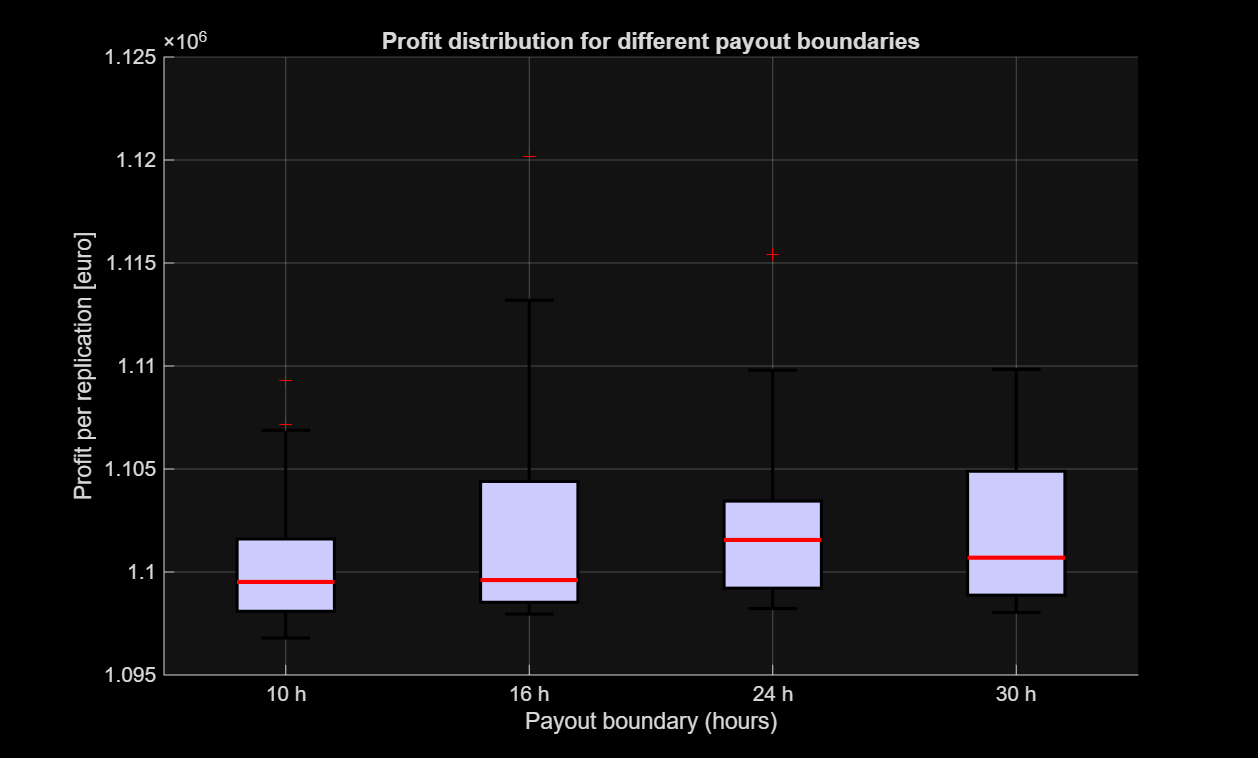
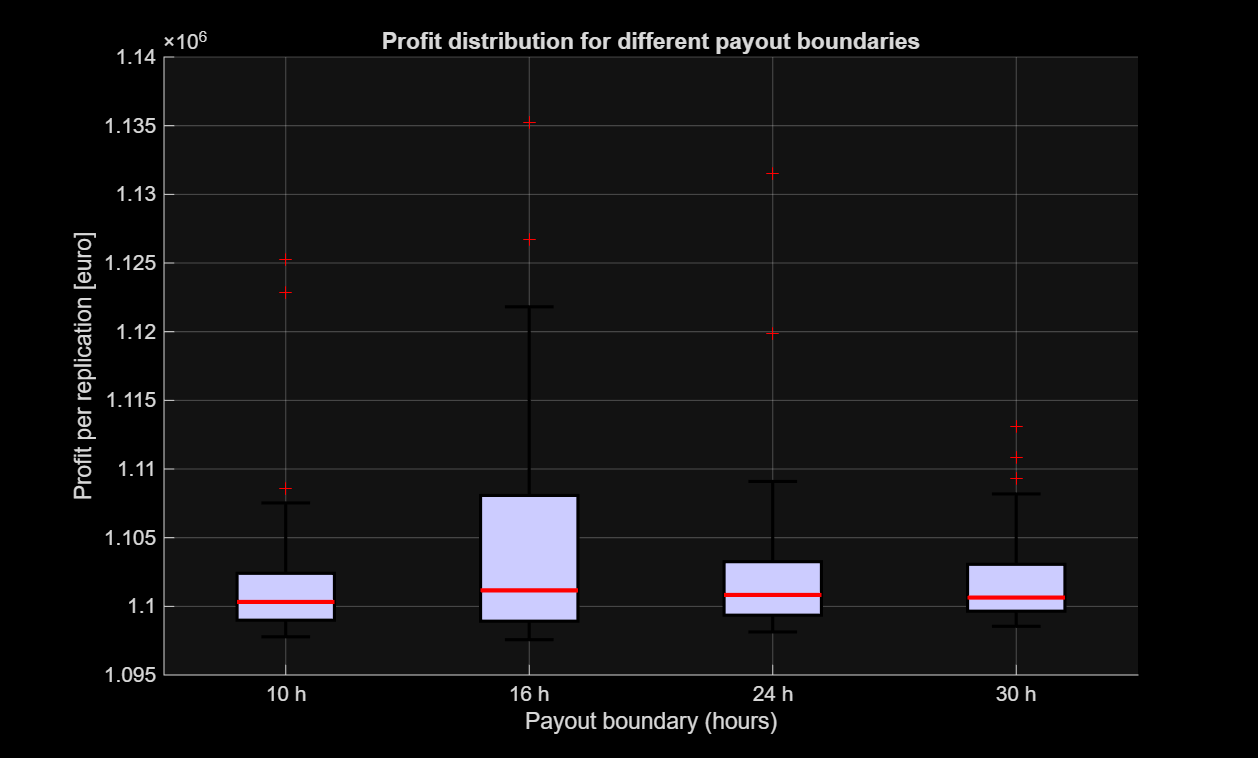
Update comments in task2.m and task3.m for clarity and detail

diff --git a/task2.m b/task2.m
@@ -71,9 +71,8 @@ fprintf('RR std: %.4f s\n', RRc_std);
 % long RR intervals, or detect noise as extra peaks, which produces artificially short RR
 % intervals.
 
-% By removing all RR intervals outside [Q1 - 1.5*IQR, Q3 + 1.5*IQR] and all non-positive
-% values, about 15.5 % of the extreme intervals are discarded. The median changes
-% only slightly, while the standard deviation drops from 0.9007s to 0.2705s. 
+% By removing all RR intervals beyond 1.5 IQR below Q1 or above Q3, along with all non-positive values, about 15.5% of the extreme intervals are gone. 
+% The median changes only slightly, while the standard deviation drops from 0.9007s to 0.2705s. 
 % This indicates that the plausible rhythm is preserved, but the extremes from detection errors are removed.
 
 %% 3. Time-series visualisation

diff --git a/task3.m b/task3.m
@@ -107,7 +107,9 @@ saveas(gcf, 'pictureTask3.png');
 
 
 %% Results summary:
-
+% Average waiting time: 2.1859 minutes
+%  Average queue length: 9.2784
+%  Average profit: 1102302.34 euro
 % Across 20 repliations with the default 24-hour payout boundary, the
 % system produced an average waiting time of around 2.12 minutes.An average
 % queue length of about 8.91 jobs and an average profit of around
